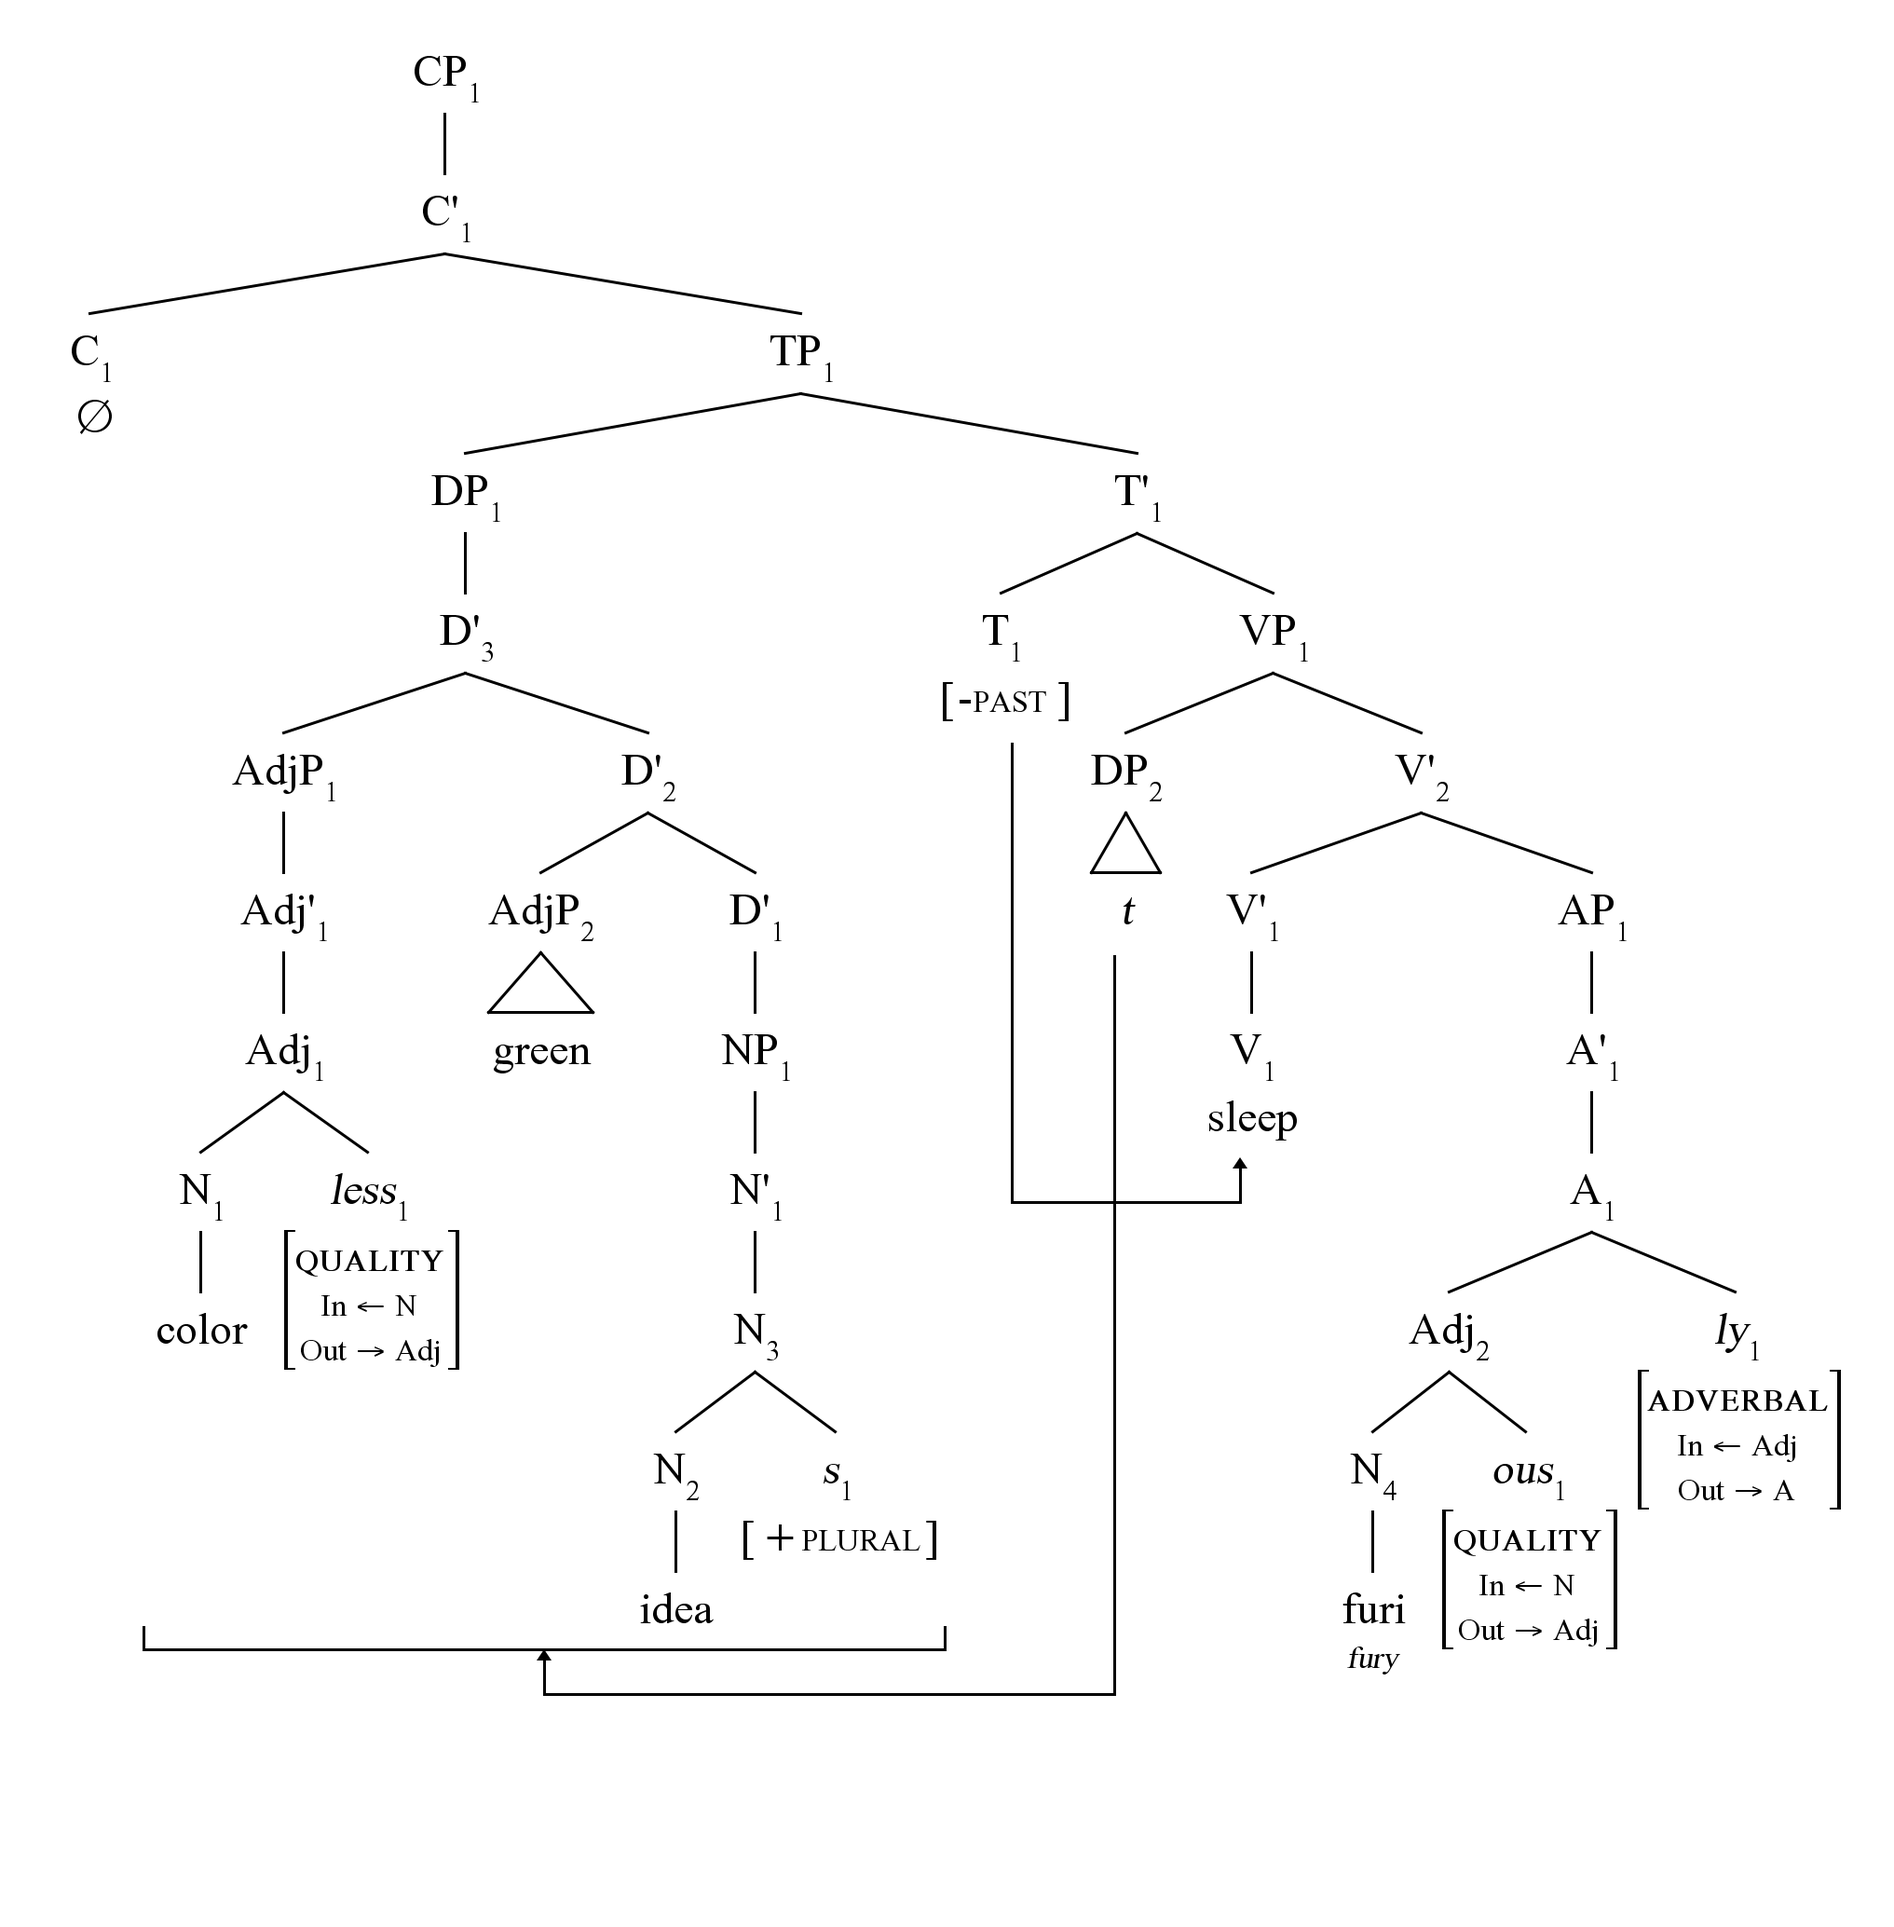
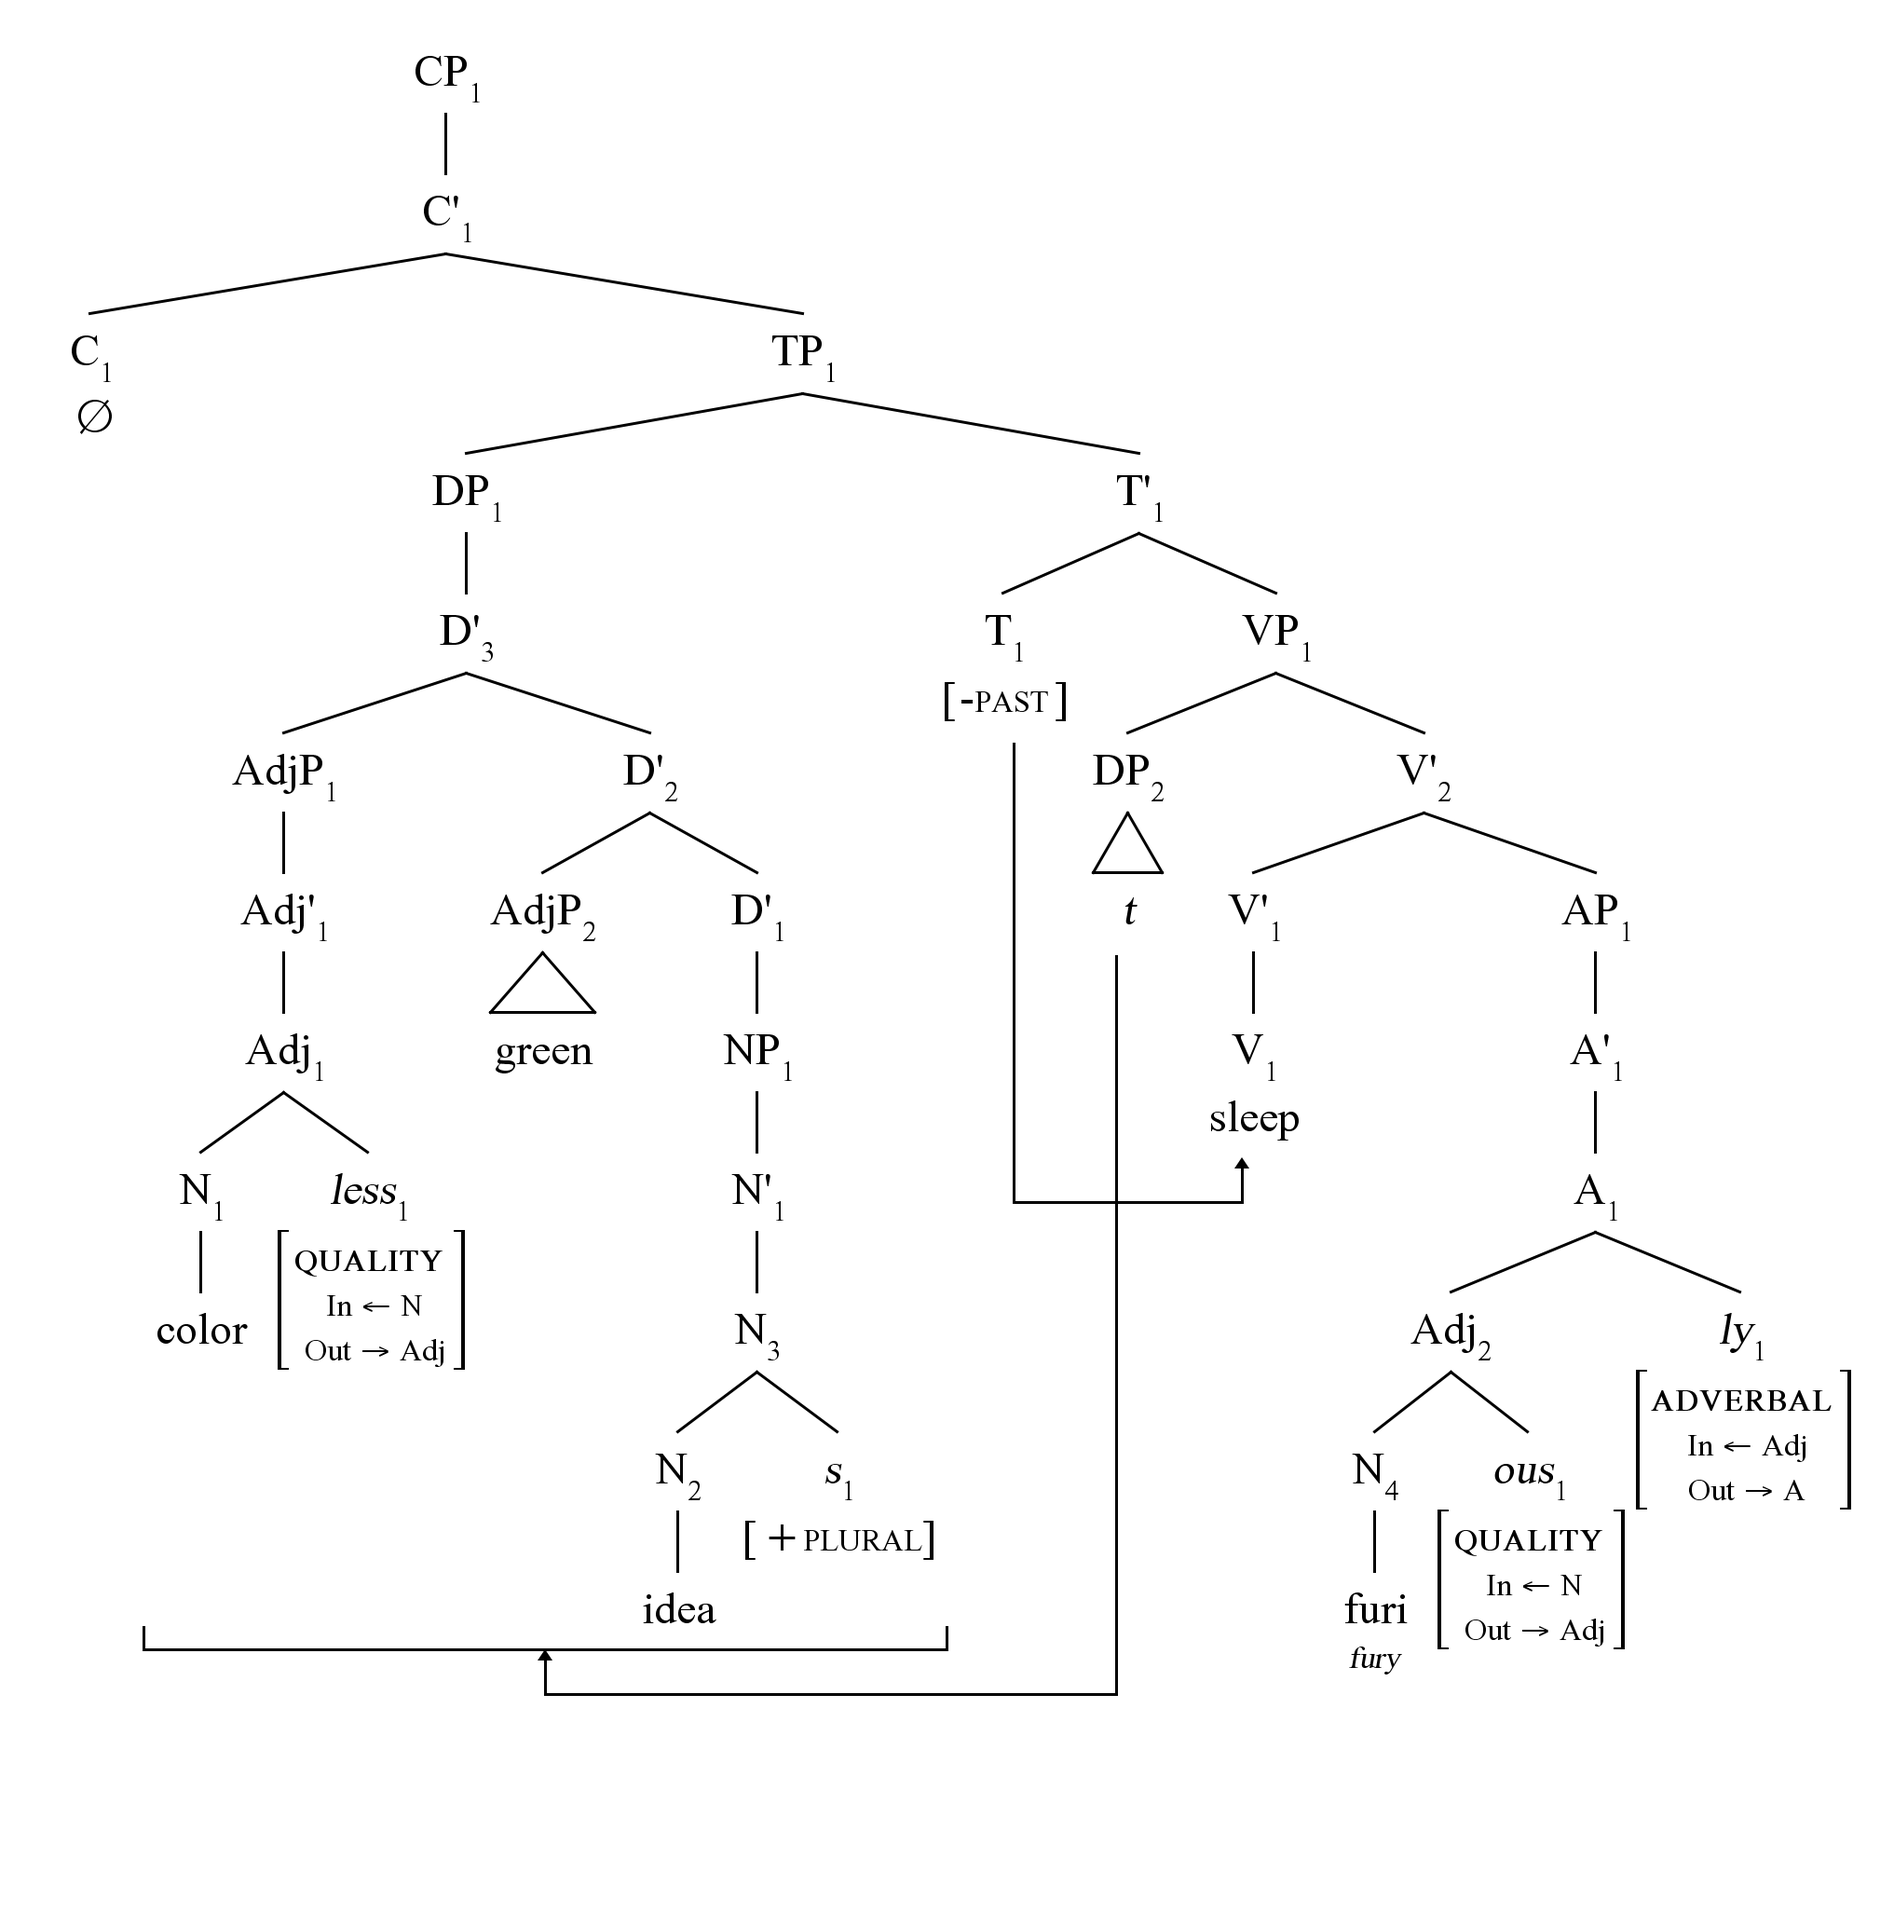
edited some spacing, still not entirely happy tbh

diff --git a/src/main/syntax/DrawTree.java b/src/main/syntax/DrawTree.java
@@ -41,7 +41,7 @@ public class DrawTree {
         this.stroke = new BasicStroke(strokeWeight);
 
         height = NS.getDepth(this) + border * 2 + spacingY;
-        width = NS.getWidth(this) + border * 2;
+        width = NS.getWidth(this, null) + border * 2;
     }
 
     public void paintStatic(Graphics2D g2) {
@@ -55,7 +55,7 @@ public class DrawTree {
     }
 
     public int paintNode(int _x, int _y, Graphics2D g2, Node n) {
-        int center_x = _x + n.getWidth(this) / 2;
+        int center_x = _x + n.getWidth(this, g2) / 2;
 
         ArrayList<Integer> x_vals = new ArrayList<Integer>();
 
@@ -64,7 +64,7 @@ public class DrawTree {
             for (Node sub : n.subNodes) {
                 g2.setStroke(stroke);
                 x_vals.add(paintNode(x, _y + spacingY, g2, sub));
-                x += sub.getWidth(this);
+                x += sub.getWidth(this, g2);
             }
         } else if (!n.metadata.isEmpty()) {
             int bracket_y = 0;
@@ -73,13 +73,13 @@ public class DrawTree {
                 g2.setStroke(stroke);
                 g2.setPaint(n.connector_color);
                 g2.draw(new Line2D.Float(center_x, _y + (int) ((float) fontSize),
-                        center_x - n.getWidth(this) / 2 + spacingX / 2,
+                        center_x - n.getWidth(this, g2) / 2 + spacingX / 2,
                         _y + spacingY - (int) ((float) fontSize / 1.25)));
                 g2.draw(new Line2D.Float(center_x, _y + (int) ((float) fontSize),
-                        center_x + n.getWidth(this) / 2 - spacingX / 2,
+                        center_x + n.getWidth(this, g2) / 2 - spacingX / 2,
                         _y + spacingY - (int) ((float) fontSize / 1.25)));
-                g2.draw(new Line2D.Float(center_x - n.getWidth(this) / 2 + spacingX / 2,
-                        _y + spacingY - (int) ((float) fontSize / 1.25), center_x + n.getWidth(this) / 2 - spacingX / 2,
+                g2.draw(new Line2D.Float(center_x - n.getWidth(this, g2) / 2 + spacingX / 2,
+                        _y + spacingY - (int) ((float) fontSize / 1.25), center_x + n.getWidth(this, g2) / 2 - spacingX / 2,
                         _y + spacingY - (int) ((float) fontSize / 1.25)));
                 g2.setPaint(n.content_color);
                 drawAlignedString(center_x, _y + spacingY, g2, n.metadata, Alignment.CENTER);
@@ -104,12 +104,12 @@ public class DrawTree {
             if (n.bracket == BRACKET.SQUARE_BRACKET) {
                 switch (n.metadata.split("\\\\n").length){
                     case 1:
-                        drawAlignedString(center_x - n.getWidth(this) / 2 + (int)(JSyntaxTree.GetWidthOfAttributedString(getTrig("[")) * 0.5), bracket_y, g2, "[", Alignment.LEFT);
-                        drawAlignedString(center_x + n.getWidth(this) / 2 - (int)(JSyntaxTree.GetWidthOfAttributedString(getTrig("]")) * 1), bracket_y, g2, "]", Alignment.LEFT);
+                        drawAlignedString(center_x - n.getWidth(this, g2) / 2 + (int)(JSyntaxTree.GetWidthOfAttributedString(getTrig("["), g2) * 0.5), bracket_y, g2, "[", Alignment.LEFT);
+                        drawAlignedString(center_x + n.getWidth(this, g2) / 2 - (int)(JSyntaxTree.GetWidthOfAttributedString(getTrig("]"), g2) * 1.5), bracket_y, g2, "]", Alignment.LEFT);
                         break;
                     case 2:
-                        drawAlignedString(center_x - n.getWidth(this) / 2 + (int)(JSyntaxTree.GetWidthOfAttributedString(getTrig("\u23a1"))), bracket_y, g2, "\u23a1\\n\u23a3", Alignment.LEFT);
-                        drawAlignedString(center_x + n.getWidth(this) / 2 - (int)(JSyntaxTree.GetWidthOfAttributedString(getTrig("\u23a4")) * 2), bracket_y, g2, "\u23a4\\n\u23a6", Alignment.LEFT);
+                        drawAlignedString(center_x - n.getWidth(this, g2) / 2 + (int)(JSyntaxTree.GetWidthOfAttributedString(getTrig("\u23a1"), g2) * 0.5), bracket_y, g2, "\u23a1\\n\u23a3", Alignment.LEFT);
+                        drawAlignedString(center_x + n.getWidth(this, g2) / 2 - (int)(JSyntaxTree.GetWidthOfAttributedString(getTrig("\u23a4"), g2) * 1.5), bracket_y, g2, "\u23a4\\n\u23a6", Alignment.LEFT);
                         break;
                     default:
                         String bl = "\u23a1\\n";
@@ -120,8 +120,8 @@ public class DrawTree {
                         }
                         bl += "\u23a3\\n";
                         br += "\u23a6\\n";
-                        drawAlignedString(center_x - n.getWidth(this) / 2 + (int)(JSyntaxTree.GetWidthOfAttributedString(getTrig("\u23a1"))), (int) (_y + fontSize * 1.5), g2, bl, Alignment.LEFT);
-                        drawAlignedString(center_x + n.getWidth(this) / 2 - (int)(JSyntaxTree.GetWidthOfAttributedString(getTrig("\u23a4")) * 2), (int) (_y + fontSize * 1.5), g2, br, Alignment.LEFT);
+                        drawAlignedString(center_x - n.getWidth(this, g2) / 2 + (int)(JSyntaxTree.GetWidthOfAttributedString(getTrig("\u23a1"), g2) * 0.5), (int) (_y + fontSize * 1.5), g2, bl, Alignment.LEFT);
+                        drawAlignedString(center_x + n.getWidth(this, g2) / 2 - (int)(JSyntaxTree.GetWidthOfAttributedString(getTrig("\u23a4"), g2) * 1.5), (int) (_y + fontSize * 1.5), g2, br, Alignment.LEFT);
                 }
             }
         }
@@ -196,8 +196,8 @@ public class DrawTree {
         max_current.passes++;
         depth_max += shiftY + fontSize;
 
-        int startX = start.getTotalX(this) - fontSize / 4;
-        int endX = end.getTotalX(this) + fontSize / 4;
+        int startX = start.getTotalX(this, g2) - fontSize / 4;
+        int endX = end.getTotalX(this, g2) + fontSize / 4;
         int startY = start.getTotalY(this) + start.getDepth(this);// + (int)((float)fontSize * 1.5);
         int endY = end.getTotalY(this) + end.getDepth(this);// + (int)((float)fontSize * 1.5);
 
@@ -207,20 +207,20 @@ public class DrawTree {
             g2.setPaint(end.move_color);
 
         if (!start.subNodes.isEmpty()) {
-            g2.draw(new Line2D.Float(startX - start.getWidth(this) / 2, startY, startX - start.getWidth(this) / 2,
+            g2.draw(new Line2D.Float(startX - start.getWidth(this, g2) / 2, startY, startX - start.getWidth(this, g2) / 2,
                     startY - fontSize / 2));
-            g2.draw(new Line2D.Float(startX + start.getWidth(this) / 2, startY, startX + start.getWidth(this) / 2,
+            g2.draw(new Line2D.Float(startX + start.getWidth(this, g2) / 2, startY, startX + start.getWidth(this, g2) / 2,
                     startY - fontSize / 2));
-            g2.draw(new Line2D.Float(startX - start.getWidth(this) / 2, startY, startX + start.getWidth(this) / 2,
+            g2.draw(new Line2D.Float(startX - start.getWidth(this, g2) / 2, startY, startX + start.getWidth(this, g2) / 2,
                     startY));
         }
 
         if (!end.subNodes.isEmpty()) {
-            g2.draw(new Line2D.Float(endX - end.getWidth(this) / 2, endY, endX - end.getWidth(this) / 2,
+            g2.draw(new Line2D.Float(endX - end.getWidth(this, g2) / 2, endY, endX - end.getWidth(this, g2) / 2,
                     endY - fontSize / 2));
-            g2.draw(new Line2D.Float(endX + end.getWidth(this) / 2, endY, endX + end.getWidth(this) / 2,
+            g2.draw(new Line2D.Float(endX + end.getWidth(this, g2) / 2, endY, endX + end.getWidth(this, g2) / 2,
                     endY - fontSize / 2));
-            g2.draw(new Line2D.Float(endX - end.getWidth(this) / 2, endY, endX + end.getWidth(this) / 2, endY));
+            g2.draw(new Line2D.Float(endX - end.getWidth(this, g2) / 2, endY, endX + end.getWidth(this, g2) / 2, endY));
         }
         // g2.draw(new QuadCurve2D.Float(startX, startY, (startX + endX) / 2, depth_max
         // + Math.max(spacingY, Math.abs(startY - endY)), endX, endY));
@@ -250,17 +250,14 @@ public class DrawTree {
             return;
         }
 
-        while (text.charAt(0) == ' ')
-            text = text.substring(1);
-
         AttributedString trig = getTrig(text);
 
         FontMetrics metrics = g2.getFontMetrics(font);
-        int x = _x - (int) (JSyntaxTree.GetWidthOfAttributedString(trig) / 2);
+        int x = _x - (int) (JSyntaxTree.GetWidthOfAttributedString(trig, g2) / 2);
         if (align == Alignment.LEFT)
             x = _x;
         if (align == Alignment.RIGHT)
-            x = _x - (int) (JSyntaxTree.GetWidthOfAttributedString(trig));
+            x = _x - (int) (JSyntaxTree.GetWidthOfAttributedString(trig, g2));
         int y = _y - ((metrics.getHeight()) / 2) + metrics.getAscent();
         g2.drawString(trig.getIterator(), x, y);
     }

diff --git a/src/main/syntax/Node.java b/src/main/syntax/Node.java
@@ -2,6 +2,7 @@ package syntax;
 
 import java.awt.Color;
 import java.util.ArrayList;
+import java.awt.Graphics2D;
 
 enum MODE {
 	NONE_, BAR_, TRIANGLE_
@@ -69,18 +70,18 @@ public class Node {
 		return depth;
 	}
 
-	public int getWidth() {
-		return getWidth(null);
+	public int getWidth(Graphics2D g2) {
+		return getWidth(null, g2);
 	}
 
-	public int getWidth(DrawTree tree) {
+	public int getWidth(DrawTree tree, Graphics2D g2) {
 		if (subNodes.isEmpty()) {
 			if (tree != null) {
-				int largest = (int) JSyntaxTree.GetWidthOfAttributedString(tree.getTrig(value));
+				int largest = (int) JSyntaxTree.GetWidthOfAttributedString(tree.getTrig(value), g2);
 				if (!metadata.isEmpty()) {
 					String[] arr = metadata.split("\\\\n");
 					for (String s : arr) {
-						int temp = (int) JSyntaxTree.GetWidthOfAttributedString(tree.getTrig(s));
+						int temp = (int) JSyntaxTree.GetWidthOfAttributedString(tree.getTrig(s), g2);
 						if (largest < temp)
 							largest = temp;
 					}
@@ -91,18 +92,18 @@ public class Node {
 		}
 		int width = 0;
 		for (Node n : subNodes)
-			width += n.getWidth(tree);
+			width += n.getWidth(tree, g2);
 		return width;
 	}
 
-	public int getTotalX(DrawTree tree) {
+	public int getTotalX(DrawTree tree, Graphics2D g2) {
 		int pos = 0;
 		Node n = getNeighborLeft();
 		while (n != null) {
-			pos += n.getWidth(tree);
+			pos += n.getWidth(tree, g2);
 			n = n.getNeighborLeft();
 		}
-		return pos + getWidth(tree) / 2 + tree.getBorder();
+		return pos + getWidth(tree, g2) / 2 + tree.getBorder();
 	}
 
 	public int getTotalY(DrawTree tree) {

diff --git a/src/main/syntax/JSyntaxTree.java b/src/main/syntax/JSyntaxTree.java
@@ -47,9 +47,11 @@ public class JSyntaxTree extends JPanel {
 
     // Finds the length of a string having
     // undergone textual effects
-    public static double GetWidthOfAttributedString(AttributedString attributedString) {
+    public static double GetWidthOfAttributedString(AttributedString attributedString, Graphics2D g2) {
         AttributedCharacterIterator characterIterator = attributedString.getIterator();
         FontRenderContext fontRenderContext = new FontRenderContext(new AffineTransform(), true, true);
+        if (g2 != null)
+            fontRenderContext = g2.getFontRenderContext();
         LineBreakMeasurer lbm = new LineBreakMeasurer(characterIterator, fontRenderContext);
         TextLayout textLayout = lbm.nextLayout(Integer.MAX_VALUE);
         return textLayout.getBounds().getWidth();
